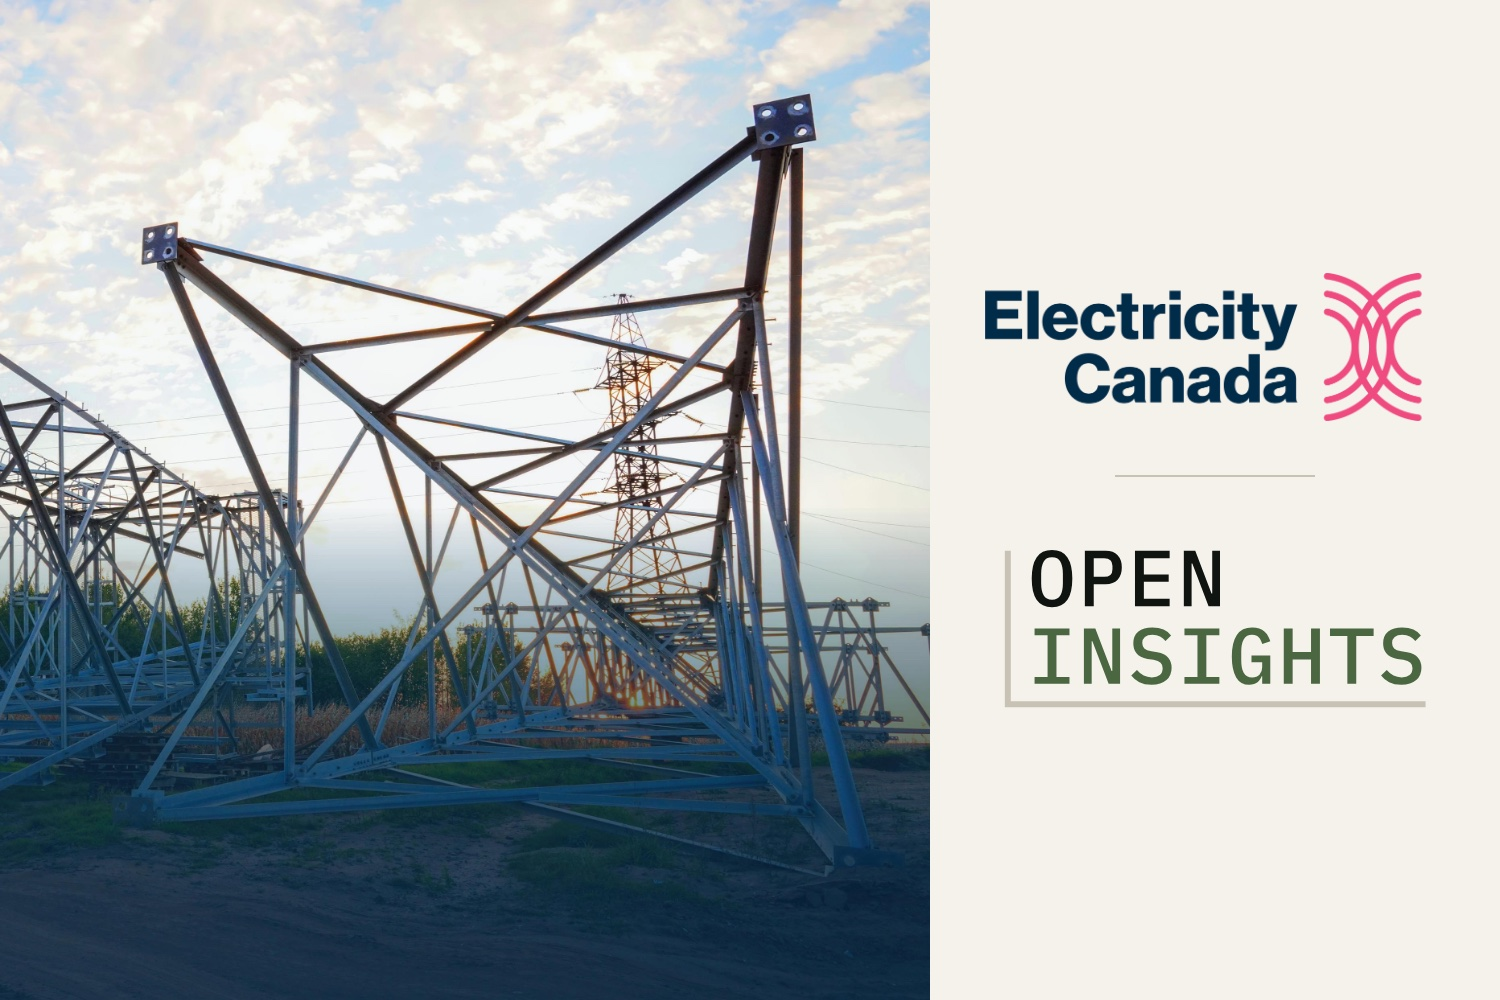
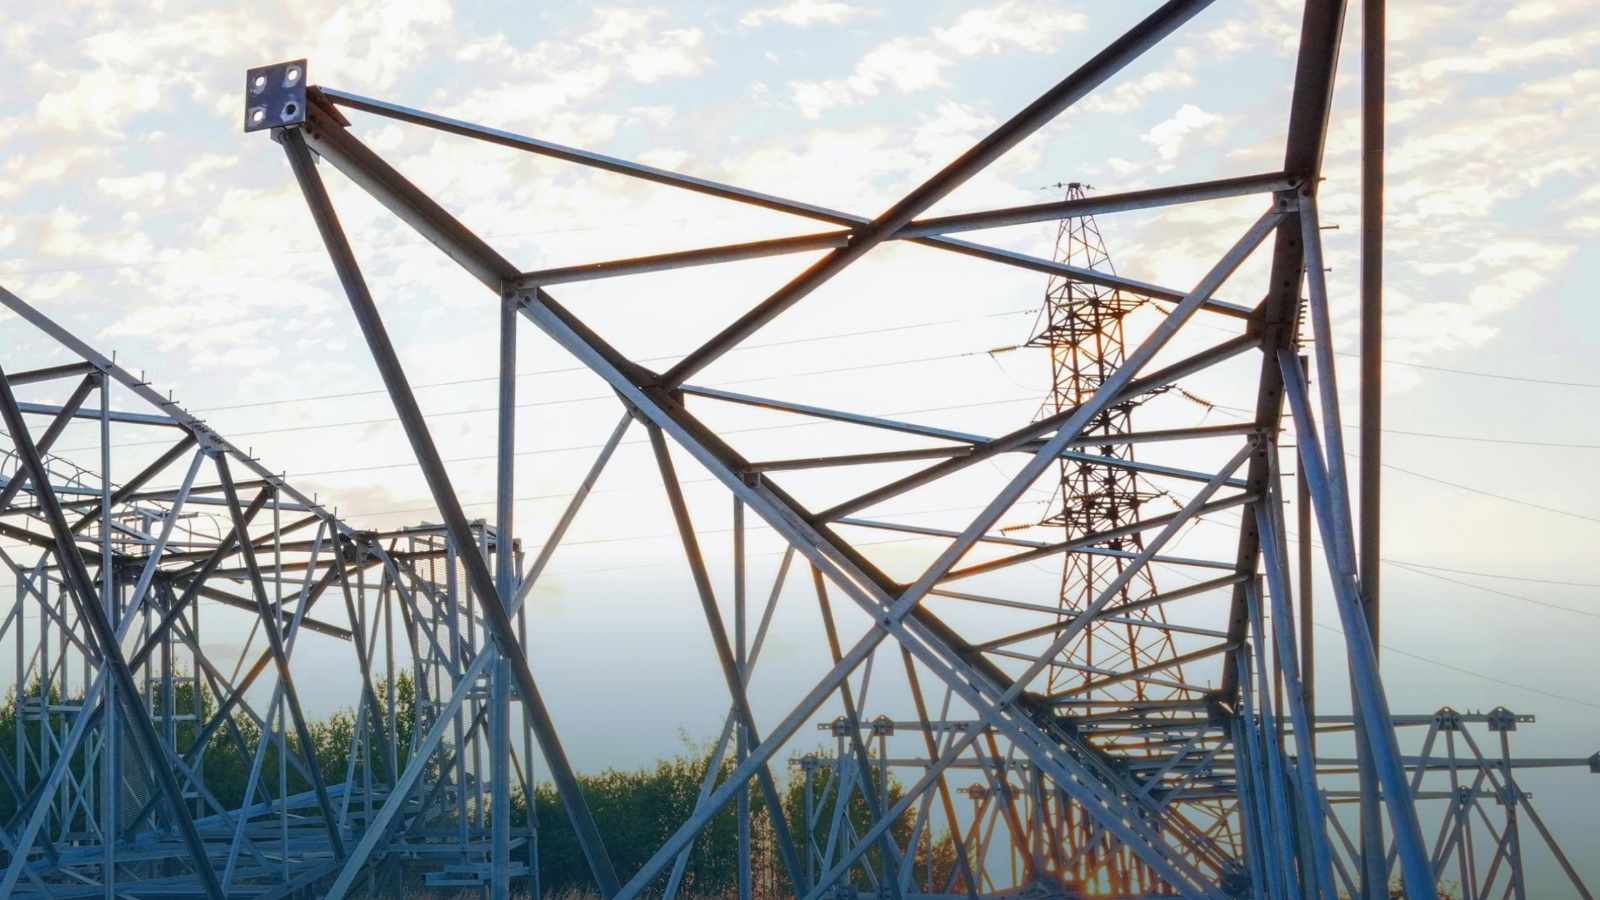
corporate: add the macroeconomic card and make the research cards uniform
Adds "Macroeconomic impacts of doubling the grid", produced with New
Economy Canada and the Canadian Chamber of Commerce. It carries three
CTAs rather than two, so the renderer gained an optional dashboardUrl,
and its blurb names two organizations, so partner linking was
generalized from a single partner to a list of mentions.

Makes the three cards visually uniform without touching the design
language. The grid stretches cards to equal height, each card is a flex
column, and one footer element holds the divider and every CTA with
margin-top:auto plus a min-height sized for three links, so dividers and
CTAs land on the same line whatever the blurb length or link count. All
three images are rebuilt to 1600x900 and the frame is a fixed 16:9 with
object-fit:cover, so the image areas match. Logos are no longer baked
into the images; partners are credited in the metadata line, which every
card now carries. Spacing is defined as custom properties on the grid so
future cards inherit it, and the blurb carries a line clamp as a safety
net set to 9, since the current copy runs to 9 lines on mobile.

Card blurbs are trimmed to the supplied copy and alt text rewritten to
describe the new photographs.

diff --git a/corporate/js/research.js b/corporate/js/research.js
@@ -11,15 +11,36 @@
  *   partner  Organization the work was produced with.
  *   partnerUrl
  *            Optional. When set, every mention of the partner's name in the
- *            meta line and summary becomes a link to it.
+ *            meta line and summary becomes a link to it. Omit `partner` when a
+ *            piece has no single partner and the meta line shows just the date.
+ *   mentions Optional [{ name, url }]. Extra organizations to link wherever
+ *            their name appears in the summary, alongside the partner.
  *   image    Optional. Path relative to this page; omit or leave "" for none —
  *            the card is designed to look complete either way.
  *   imageAlt Describe the image for screen readers. Required if image is set.
  *   reportUrl / modelUrl
  *            Optional. Omit or leave "" and that link renders greyed out as
  *            "Coming soon" instead.
+ *   dashboardUrl
+ *            Optional. Adds a third link, "Access the results dashboard".
  */
 const RESEARCH_ITEMS = [
+  {
+    date: '2026-09',
+    program: 'Custom Scenario Analysis',
+    partner: 'New Economy Canada and the Canadian Chamber of Commerce',
+    mentions: [
+      { name: 'New Economy Canada', url: 'https://neweconomycanada.ca/' },
+      { name: 'Canadian Chamber of Commerce', url: 'https://chamber.ca/' },
+    ],
+    title: 'Macroeconomic impacts of doubling the grid',
+    image: 'assets/research/macroeconomic-impacts-doubling-the-grid.jpg',
+    imageAlt: 'An aerial photograph of transmission lines crossing forested mountains under a clear sky.',
+    summary: 'Open Insights worked with New Economy Canada and the Canadian Chamber of Commerce to assess the macroeconomic impacts of doubling the grid. The analysis found the return on investment could be large, but only if key barriers are removed.',
+    reportUrl: 'https://neweconomycanada.ca/powering-growth/',
+    modelUrl: 'https://sesit.gitlab.io/M3-linkages/projects/powering_canadas_growth/',
+    dashboardUrl: 'https://ideajs.sesit.ca/view/0hmpa7wq8n',
+  },
   {
     date: '2026-09',
     program: 'Custom Scenario Analysis',
@@ -27,8 +48,8 @@ const RESEARCH_ITEMS = [
     partnerUrl: 'https://cleanprosperity.ca/',
     title: 'Electricity system pathway modelling for Saskatchewan',
     image: 'assets/research/saskatchewan-electricity-pathways.jpg',
-    imageAlt: 'Clean Prosperity logo above a photograph of the Saskatchewan and Canadian flags flying against a clear sky.',
-    summary: 'The Open Insights team collaborated with Clean Prosperity to model several electricity policy scenarios for Saskatchewan, including a “grand bargain” scenario where the province restarts its output-based performance standards carbon market and builds 2,600 megawatts of nuclear power by 2050. Impacts on emissions, costs, electricity demand & supply were assessed.',
+    imageAlt: 'The Saskatchewan and Canadian flags flying against a clear sky.',
+    summary: 'Open Insights worked with Clean Prosperity to model several electricity policy scenarios for Saskatchewan, including a “grand bargain” in which the province restarts its output-based carbon market and builds 2,600 MW of nuclear by 2050. The analysis assessed emissions, costs, and electricity supply and demand.',
     reportUrl: 'https://cleanprosperity.ca/wp-content/uploads/2026/09/A-Nuclear-Grand-Bargain-September-2026.pdf',
     modelUrl: 'https://sesit.gitlab.io/m3-linkages/projects/cp_saskatchewan/',
   },
@@ -39,8 +60,8 @@ const RESEARCH_ITEMS = [
     partnerUrl: 'https://www.electricity.ca/',
     title: 'Reliability, extreme weather and interties',
     image: 'assets/research/open-insights-electricity-canada.jpg',
-    imageAlt: 'The report cover, showing transmission towers at sunset, beside the Electricity Canada logo above the Open Insights logo.',
-    summary: 'This report from Electricity Canada and the Open Insights initiative, led by researchers at the University of Victoria, examines how expanded interprovincial electricity connections can strengthen Canada\u2019s grid against extreme weather. Modelling shows that greater interconnection can reduce outage risks, improve resilience, lower system costs and make better use of diverse generation resources, demonstrating the value of greater provincial cooperation in building Canada\u2019s future electricity system.',
+    imageAlt: 'A steel transmission tower photographed from below at sunrise, with more towers receding into the distance.',
+    summary: 'Open Insights worked with Electricity Canada to examine how expanded interprovincial connections can strengthen Canada’s grid against extreme weather. Modelling suggests greater interconnection can reduce outage risk, improve resilience, lower system costs, and make better use of diverse generation resources.',
     reportUrl: 'https://www.electricity.ca/publications/building-grid-resilience-through-interprovincial-interties/',
     modelUrl: 'https://sesit.gitlab.io/m3-linkages/projects/electricity_canada_extremeweather/',
   },
@@ -64,23 +85,40 @@ const RESEARCH_ITEMS = [
     'Custom Scenario Analysis': 'research-tag--csa',
   };
 
-  /* Splits text on the partner name and links each occurrence. Builds real
-     nodes rather than HTML strings, so nothing needs escaping. */
-  const withPartnerLinks = (parent, text, partner, url) => {
-    if (!url || !partner || !text.includes(partner)) {
+  /* The organizations whose names should link, in one list. */
+  const mentionsFor = (item) => {
+    const list = [];
+    if (item.partner && item.partnerUrl) list.push({ name: item.partner, url: item.partnerUrl });
+    (item.mentions || []).forEach((m) => list.push(m));
+    return list;
+  };
+
+  /* Links every mention of those organizations in the text. Builds real nodes
+     rather than HTML strings, so nothing needs escaping. */
+  const withMentionLinks = (parent, text, targets) => {
+    if (!targets.length) {
       parent.appendChild(document.createTextNode(text));
       return parent;
     }
-    text.split(partner).forEach((chunk, i) => {
-      if (i > 0) {
+    const urlFor = new Map(targets.map((t) => [t.name, t.url]));
+    // Longest first, so one name cannot swallow another that contains it.
+    const pattern = targets
+      .map((t) => t.name)
+      .sort((a, b) => b.length - a.length)
+      .map((n) => n.replace(/[.*+?^${}()|[\]\\]/g, '\\$&'))
+      .join('|');
+    text.split(new RegExp(`(${pattern})`, 'g')).forEach((chunk) => {
+      if (!chunk) return;
+      if (urlFor.has(chunk)) {
         const a = document.createElement('a');
-        a.href = url;
+        a.href = urlFor.get(chunk);
         a.target = '_blank';
         a.rel = 'noopener noreferrer';
-        a.textContent = partner;
+        a.textContent = chunk;
         parent.appendChild(a);
+      } else {
+        parent.appendChild(document.createTextNode(chunk));
       }
-      if (chunk) parent.appendChild(document.createTextNode(chunk));
     });
     return parent;
   };
@@ -121,19 +159,28 @@ const RESEARCH_ITEMS = [
       article.appendChild(media);
     }
 
+    const targets = mentionsFor(item);
+
     article.appendChild(
       el('span', `research-tag ${TAG_CLASS[item.program] || ''}`.trim(), item.program));
-    article.appendChild(withPartnerLinks(
+    article.appendChild(withMentionLinks(
       el('p', 'research-meta'),
-      `With ${item.partner} · ${monthYear(item.date)}`, item.partner, item.partnerUrl));
+      item.partner ? `With ${item.partner} · ${monthYear(item.date)}` : monthYear(item.date),
+      targets));
     article.appendChild(el('h3', 'research-title', item.title));
-    article.appendChild(withPartnerLinks(
-      el('p', 'research-summary'), item.summary, item.partner, item.partnerUrl));
+    article.appendChild(withMentionLinks(
+      el('p', 'research-summary'), item.summary, targets));
 
-    const links = el('div', 'research-links');
-    links.appendChild(linkRow('Read the report', item.reportUrl));
-    links.appendChild(linkRow('Access the model assumptions, input data, and code', item.modelUrl));
-    article.appendChild(links);
+    /* One footer holds the divider and every CTA. margin-top:auto pushes it to
+       the bottom, and its min-height reserves room for three links, so footers
+       line up across cards whatever the blurb length or link count. */
+    const footer = el('footer', 'research-footer');
+    footer.appendChild(linkRow('Read the report', item.reportUrl));
+    footer.appendChild(linkRow('Access the model assumptions, input data, and code', item.modelUrl));
+    if (item.dashboardUrl) {
+      footer.appendChild(linkRow('Access the results dashboard', item.dashboardUrl));
+    }
+    article.appendChild(footer);
 
     return article;
   };

diff --git a/corporate/css/styles.css b/corporate/css/styles.css
@@ -362,11 +362,21 @@ a.service-tag--link:hover {
 .research-grid {
   display: grid; grid-template-columns: repeat(3, 1fr);
   gap: 1rem; margin-top: 3rem;
+  align-items: stretch;
+
+  /* Card rhythm. Set here so every current and future card inherits the same
+     spacing, and one edit changes them all. */
+  --rc-space:        0.6rem;   /* tag / meta / title / blurb */
+  --rc-media-gap:    0.5rem;   /* image to tag */
+  --rc-footer-pad:   1rem;     /* divider to first CTA */
+  --rc-footer-gap:   0.6rem;   /* between CTAs */
+  --rc-footer-min:   8.625rem; /* reserves room for three CTAs */
+  --rc-blurb-lines:  9;        /* clamp; see .research-summary */
 }
 
 .research-card {
   background: var(--white); border: 1px solid var(--rule);
-  padding: 1.75rem; display: flex; flex-direction: column; gap: 0.6rem;
+  padding: 1.75rem; display: flex; flex-direction: column; gap: var(--rc-space);
   height: 100%;
   transition: border-color 200ms ease, transform 200ms ease;
 }
@@ -374,11 +384,17 @@ a.service-tag--link:hover {
 
 /* Optional image — cards without one simply start at the tag. */
 .research-media {
-  margin: -1.75rem -1.75rem 0.5rem; border-bottom: 1px solid var(--rule);
+  margin: -1.75rem -1.75rem var(--rc-media-gap); border-bottom: 1px solid var(--rule);
   background: var(--mist); overflow: hidden;
+  aspect-ratio: 16 / 9;
 }
-/* Full image, uncropped — the frame follows whatever ratio the file has. */
-.research-media img { width: 100%; height: auto; display: block; }
+/* Fixed 16:9 frame, so every card's image area is identical whatever the
+   source file's own ratio. Images carry no logos; partners are credited in
+   the metadata line instead. */
+.research-media img {
+  width: 100%; height: 100%; display: block;
+  object-fit: cover; object-position: center;
+}
 
 /* In-text links in body copy follow the site palette, not the browser default. */
 .service-card p a,
@@ -409,11 +425,25 @@ a.service-tag--link:hover {
 
 .research-summary {
   font-size: 0.85rem; color: var(--ink); line-height: 1.6; max-width: none;
+  /* Safety net for future copy. Set to 9 rather than 5 because the current
+     blurbs run 6 to 7 lines on desktop and up to 9 on mobile, and a clamp of 5
+     would cut all three. Lower it once the copy is shorter. */
+  display: -webkit-box;
+  -webkit-line-clamp: var(--rc-blurb-lines);
+  -webkit-box-orient: vertical;
+  overflow: hidden;
 }
 
-.research-links {
-  margin-top: auto; padding-top: 1rem; border-top: 1px solid var(--rule);
-  display: flex; flex-direction: column; gap: 0.6rem;
+/* The divider and every CTA live in this one footer. margin-top:auto pins it to
+   the bottom of the card; min-height reserves space for three links so a card
+   with two still lines up with a card that has three. */
+.research-footer {
+  /* Reset the page-level `footer` styling, which is dark. */
+  background: none; color: inherit;
+  margin-top: auto; padding: var(--rc-footer-pad) 0 0;
+  border-top: 1px solid var(--rule);
+  display: flex; flex-direction: column; gap: var(--rc-footer-gap);
+  min-height: var(--rc-footer-min);
 }
 .research-link {
   font-family: 'IBM Plex Mono', monospace; font-size: 0.72rem;
